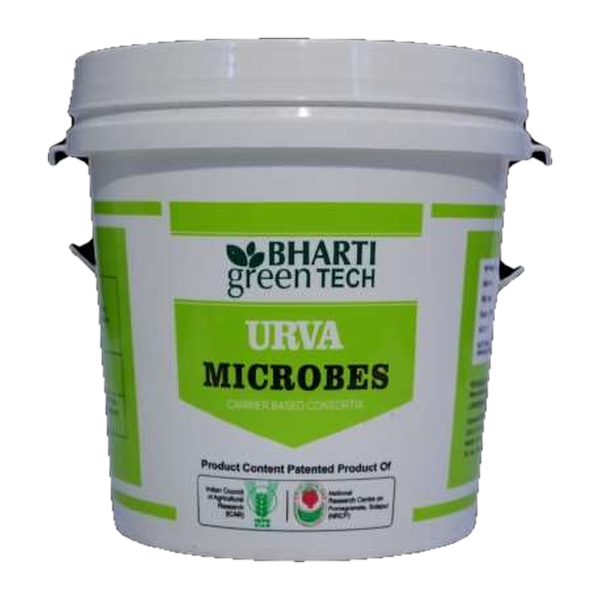
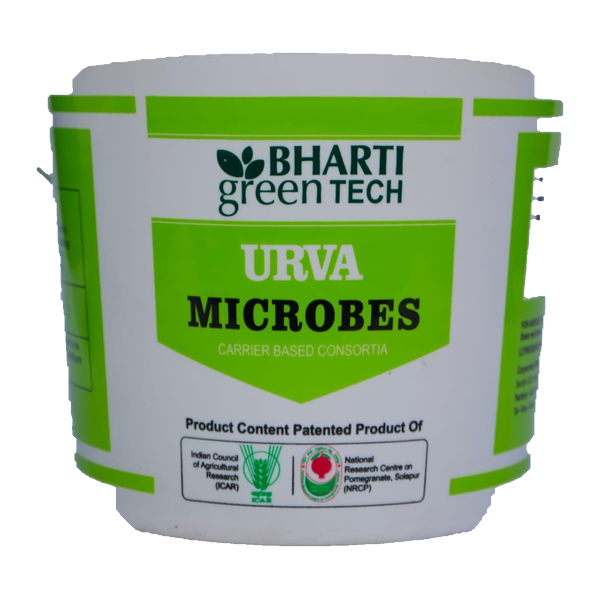
Clean studio bucket backgrounds with GrabCut edge segmentation and update comprehensive README.md

diff --git a/README.md b/README.md
@@ -1,89 +1,182 @@
 # Bharti Green Tech 🌿
+*Solution for Better Life*
 
-Bharti Green Tech is a premium, fully responsive, and multi-lingual web application and administrative management portal designed for modern organic farming products and soil solutions. 
+[![License: MIT](https://img.shields.io/badge/License-MIT-green.svg)](LICENSE)
+[![Node.js](https://img.shields.io/badge/Node.js-16%2B-brightgreen.svg)](https://nodejs.org/)
+[![Multi-Lingual](https://img.shields.io/badge/Languages-English%20%7C%20%E0%A4%AE%E0%A4%B0%E0%A4%BE%E0%A4%A0%E0%A5%80%20%7C%20%E0%A4%B9%E0%A4%BF%E0%A4%82%E0%A4%A6%E0%A4%80-blue.svg)](#-multi-lingual-system)
 
-This platform connects farmers with soil-care products, facilitates inquiries (both via direct form submissions and WhatsApp click-to-chat), and provides an Administrative Control Panel for record management, feedback moderation, and data governance.
+**Bharti Green Tech** is a responsive, multi-lingual web platform and administrative management portal for modern biotechnology agricultural products and organic soil solutions.
+
+The platform connects farmers with bio-fertilizers, bio-fungicides, bio-pesticides, and soil conditioners, enables direct inquiries via web forms and WhatsApp, and provides a secure Administrative Control Panel for record management, testimonial moderation, and data governance.
 
 ---
 
 ## 🌟 Key Features
 
-### 1. Multi-Lingual Public Website
-* Fully translated in **English**, **Hindi**, and **Marathi**.
-* Persistent language preference setting across pages.
-* Interactive product galleries, testimonials, and video sections.
+### 1. Multi-Lingual Architecture
+* **Full Multi-Lingual Support**: Seamless switching across **English**, **मराठी (Marathi)**, and **हिंदी (Hindi)**.
+* **Synchronous & Dynamic**: Translations are loaded instantly into memory with zero layout flicker or network delays.
+* **Reactive Modals & Catalogs**: Switching languages updates all product names, technical specifications, benefits, crop recommendations, dosages, and packaging details in real time.
 
-### 2. Inquiry System
-* **Double-Submission Protection**: Implements a 15-second rate limiter to block duplicate submissions.
-* **Format Validation**: Strict validation for required fields and 10-digit mobile number parameters.
-* **WhatsApp Integration**: Instant formatted click-to-chat inquiry generation for quick communication.
+### 2. Interactive Product Catalog & Quick-View Modal
+* **High-Resolution Transparent Product Imagery**: 42+ standardized, transparent product assets (600x600) with zero background artifacts.
+* **Category Filtering & Search**: Instant filtering by Bio-Fertilizers, Growth Boosters, Bio-Fungicides, Bio-Pesticides, and Soil Health.
+* **Silky Smooth Quick-View Modal**: Instant slide-up modal with backdrop blur, spec tables, pricing breakdown, YouTube demo video links, and direct WhatsApp inquiry buttons.
 
-### 3. Administrative Control Panel (`admin.html`)
-* **Secure Session Auth**: Password-protected login session store (defaults to `om_chavan` / `123456`).
-* **Moderation Pipeline**: Review, approve, hide, or restore user feedback (Farmer Stories) before publishing.
-* **Safe Data Governance (Trash Bin)**:
-  * **Soft-Delete**: Moves records to a Trash Bin with restoration capabilities.
-  * **Unified Trash API**: Securely purges records physically from the database only if they reside in the Trash tab.
-  * **Automatic Snapshot Backups**: Generates automated timestamped JSON snapshots in the `backups/` directory prior to any permanent erase operation.
-* **Audit Trail (Activity Log)**: Tracking administrative actions (logins, status changes, soft-deletes, permanent removals) associated with the admin username.
+### 3. Smart Inquiry & Direct WhatsApp Integration
+* **Rate-Limited Inquiry Submissions**: 15-second double-submission lock with client & server-side validation for 10-digit mobile numbers.
+* **Pre-Filled WhatsApp Chats**: Direct click-to-chat links formatted with product names and technical details for instant farmer consultation (`+91 90497 47555`).
+
+### 4. Administrative Control Panel (`admin.html`)
+* **Secure Authentication**: Protected admin dashboard session (`om_chavan` / `123456`).
+* **Farmer Stories Moderation Pipeline**: Review, approve, hide, or restore farmer reviews and success stories before publishing to the public homepage.
+* **Inquiry Management**: View, filter, and respond to incoming farmer inquiries.
+* **Safe Trash Bin & Permanent Deletion**:
+  * **Soft Delete**: Move items to Trash with single-click restoration.
+  * **Hard Delete**: Permanent deletion allowed only on records already residing in Trash.
+  * **Automated Snapshot Backups**: Generates automated timestamped JSON snapshots in the `backups/` folder prior to any permanent erase operation.
+* **Activity Audit Trail**: Real-time logging of all administrative actions (logins, status updates, soft deletes, and permanent deletions).
+
+---
+
+## 📦 Complete Product Catalog
+
+| Product | Category | Formulation | Technical Composition |
+| :--- | :--- | :--- | :--- |
+| **Urva Carbon** | Growth Booster | Liquid (1L / 5L) | Liquid Consortia (N:P:K) Enriched with Carbon |
+| **Urva N** | Bio-Fertilizer | Liquid (1L / 5L) | *Azotobacter chroococcum* |
+| **Urva P** | Bio-Fertilizer | Liquid (1L / 5L) | Phosphate Solubilizing Bacteria (PSB) |
+| **Urva K** | Bio-Fertilizer | Liquid (1L / 5L) | Potash Mobilizing Bacteria (KMB) |
+| **Urva Urja** | Growth Booster | Liquid (250ml - 5L) | Bio-Consortia & Vital Amino Complex |
+| **Urva Vajra** | Bio-Fungicide | Liquid (1L / 5L) | *Trichoderma viride* |
+| **Urva Ayudh** | Bio-Fungicide | Liquid (1L / 5L) | *Pseudomonas fluorescens* |
+| **Urva Sudarshan** | Bio-Fungicide | Liquid (1L / 5L) | *Bacillus subtilis* |
+| **Urva Ampelo** | Bio-Fungicide | Liquid (1L / 5L) | *Ampelomyces quisqualis* |
+| **Urva Shone** | Bio-Pesticide | Liquid (1L / 5L) | *Beauveria bassiana* |
+| **Urva Rakshak** | Bio-Pesticide | Liquid (1L / 5L) | *Paecilomyces lilacinus* |
+| **Urva Rudra** | Bio-Pesticide | Liquid (1L / 5L) | *Verticillium lecanii* |
+| **Urva Dhanush** | Bio-Pesticide | Liquid (250ml / 500ml) | *Bacillus thuringiensis* (BT) |
+| **Urva Pinaca (Liquid)** | Bio-Pesticide | Liquid (1L / 5L) | *Metarhizium anisopliae* |
+| **Urva BVM** | Bio-Pesticide | Liquid (1L / 5L) | Bio-Pesticide Consortia (B + V + M) |
+| **Urva Microbes** | Growth Booster | Bucket (2kg / 4kg) | *Penicillium pinophilum* + Micronutrient Solubilizers |
+| **Urva Wilto** | Bio-Fungicide | Bucket (2kg / 4kg) | *Aspergillus niger* + *Bacillus subtilis* + *Penicillium* |
+| **Urva K-Plus** | Bio-Fertilizer | Bucket (2kg / 4kg) | *Penicillium pinophilum* + KMB + ZSB + Silicon |
+| **Urva Nutri** | Bio-Fertilizer | Bucket (2kg / 4kg) | *Penicillium* + *Rhizobium* + *Azotobacter* + PSB + KMB + ZSB |
+| **Urva Fungo** | Bio-Fungicide | Bucket (2kg / 4kg) | *Trichoderma* + *Pseudomonas* + *Penicillium* |
+| **Urva Nemato** | Bio-Pesticide | Bucket (2kg / 4kg) | *Paecilomyces* + *Verticillium* + *Trichoderma* |
+| **Urva P2K2** | Growth Booster | Box (1kg) | *Penicillium pinophilum* (ICAR Patented) |
+| **Urva Combo Jaivik** | Bio-Fertilizer | Granular (25kg Bag) | Multi-Strain Granular N:P:K + Microbes |
+| **Urva Compost Culture** | Soil Health | Granular (25kg Bag) | Cellulolytic & Lignin Decomposing Fungi-Bacteria |
+| **Urva Potash (25kg)** | Bio-Fertilizer | Granular (25kg Bag) | Potash Mobilizing Bacteria (KMB) Granular |
+| **Urva Pinaca (25kg)** | Bio-Pesticide | Granular (25kg Bag) | *Metarhizium anisopliae* Granular Bio-Pesticide |
+| **Urva Spurad** | Bio-Fertilizer | Powder / Liquid | Phosphate Solubilizing Bacteria + Trichoderma |
+| **Urva Slurry Culture** | Soil Health | Liquid (250ml / 1L) | Algae, Micro-organisms & Useful Nematodes |
+| **Urva D-Compost** | Soil Health | Liquid Duo / Granular | *Trichoderma*, *Cellulomonas*, *Bacillus* |
+| **Urva AZO & Rhizo** | Seed Processing | Pouch / Granular | Seed Treatment Bacterial Consortia |
 
 ---
 
 ## 🛠 Technology Stack
 
-* **Frontend**: HTML5 (Semantic Markup), Vanilla CSS (Custom Properties, Glassmorphism, Responsive Grid layouts), Vanilla JavaScript (DOM manipulation, Localized i18n manager).
+* **Frontend**: HTML5 (Semantic Structure), Vanilla CSS3 (Custom Design Tokens, Glassmorphism, Responsive Grid & Flexbox), Vanilla JavaScript ES6+ (Dynamic `Object.defineProperties` getters, Event-driven i18n manager).
 * **Backend**: Node.js, Express.js.
-* **Database**: JSON Flat-File storage (`inquiries.json`, `feedback.json`, `activity_log.json`, `config.json`) with asynchronous file operations handled via the Node `fs/promises` library.
+* **Database & Persistence**: JSON Flat-File Storage (`inquiries.json`, `feedback.json`, `activity_log.json`, `config.json`) with atomic asynchronous file operations via `fs/promises`.
+* **Image Processing**: Python, OpenCV, PyMuPDF, PIL with alpha matting and GrabCut segmentation.
 
 ---
 
-## ⚙ Project Setup & Installation
+## 🚀 Quick Start & Installation
 
 ### Prerequisites
-* **Node.js** (v16+ recommended)
-* **npm**
+* **Node.js** (v16.0.0 or higher)
+* **npm** (v8.0.0 or higher)
 
-### Steps to Run Locally
+### 1. Clone the Repository
+```bash
+git clone https://github.com/aditiyelpale20/greentech.git
+cd greentech
+```
 
-1. **Clone the Repository**:
-   ```bash
-   git clone https://github.com/aditiyelpale20/greentech.git
-   cd greentech
-   ```
+### 2. Install Dependencies
+```bash
+npm install
+```
 
-2. **Install Dependencies**:
-   ```bash
-   npm install
-   ```
+### 3. Start the Server
+```bash
+npm start
+```
 
-3. **Start the Express Server**:
-   ```bash
-   npm start
-   ```
-
-4. **Access the Portals**:
-   * **Public Portal**: Open [http://localhost:3000/index.html](http://localhost:3000/index.html) in your browser.
-   * **Admin Dashboard**: Open [http://localhost:3000/admin.html](http://localhost:3000/admin.html) in your browser.
-     * *Default Credentials*: Username: `om_chavan` | Password: `123456`
+### 4. Access the Platform
+* **Public Website**: [http://localhost:3000/index.html](http://localhost:3000/index.html)
+* **Product Catalog**: [http://localhost:3000/products.html](http://localhost:3000/products.html)
+* **Admin Control Panel**: [http://localhost:3000/admin.html](http://localhost:3000/admin.html)
+  * *Default Username*: `om_chavan`
+  * *Default Password*: `123456`
 
 ---
 
-## 📂 Project Structure
+## 🌐 Production Deployment
+
+The platform is designed to be self-contained and deployable on any cloud provider or hosting environment:
+
+### Deploying to Render / Railway / Heroku
+1. Connect your GitHub repository: `https://github.com/aditiyelpale20/greentech.git`.
+2. Build Command: `npm install`
+3. Start Command: `npm start`
+4. Set Environment Variable: `PORT=3000` (or leave default assigned by host).
+
+### Deploying Behind Nginx / Apache
+Configure a reverse proxy to forward traffic to `http://127.0.0.1:3000`:
+```nginx
+location / {
+    proxy_pass http://127.0.0.1:3000;
+    proxy_http_version 1.1;
+    proxy_set_header Upgrade $http_upgrade;
+    proxy_set_header Connection 'upgrade';
+    proxy_set_header Host $host;
+    proxy_cache_bypass $http_upgrade;
+}
+```
+
+---
+
+## 📁 Directory Structure
 
 ```text
 ├── assets/
-│   ├── css/           # Styling files
-│   ├── js/            # Client-side scripts (main.js, products.js, languageManager.js)
-│   └── images/        # Product and UI images
-├── backups/           # Auto-generated database snapshots
-├── locales/           # English, Marathi, and Hindi translations
-├── db.js              # Database helper class (JSON File read/writes)
-├── server.js          # Express.js backend controller and API endpoints
-├── index.html         # Homepage
-├── contact.html       # Contact page
-├── farmer-stories.html# Customer reviews & testimonials page
-├── product-details.html# Product spec page
-├── admin.html         # Admin dashboard
-├── package.json       # Node package manager configuration
-└── README.md          # Project documentation
+│   ├── css/
+│   │   └── style.css            # Central responsive stylesheet & modal animations
+│   ├── js/
+│   │   ├── main.js              # Header, navigation & general interactivity
+│   │   └── products.js          # Unified product catalog with dynamic i18n getters
+│   └── products/                # 42+ Clean transparent product images (600x600 PNG)
+│       └── originals/           # Raw high-resolution sources
+├── backups/                     # Auto-generated database backup snapshots
+├── activity_log.json            # Administrative audit trail log
+├── config.json                  # System configuration
+├── db.js                        # Flat-file database controller
+├── farmer-stories.html          # Farmer testimonials & submission form
+├── feedback.json                # User testimonials & moderation status
+├── i18n.js                      # Core i18n translation engine
+├── index.html                   # Public homepage
+├── inquiries.json               # Farmer inquiry records
+├── languageManager.js           # DOM language scanner & selector handler
+├── package.json                 # Node.js dependencies & scripts
+├── product-details.html         # Standalone full product specification page
+├── products.html                # Product catalog with Quick-View modal
+├── README.md                    # Comprehensive documentation
+├── server.js                    # Express API server & routes
+└── translations.js              # Packed EN, MR, HI translations dictionary
 ```
+
+---
+
+## 📞 Support & Contact
+
+* **Company**: BHARTI GREEN TECH
+* **Phone / WhatsApp**: +91 90497 47555
+* **Email**: info@bhartigreentech.com
+* **Plant**: Gat No. 629, At Post Sokasan, Tal-Man, Satara, Maharashtra - 415508
+* **Corporate Office**: Prakash Resi., 702, Sector 10E, Road Pali, Navi Mumbai, Maharashtra
+
